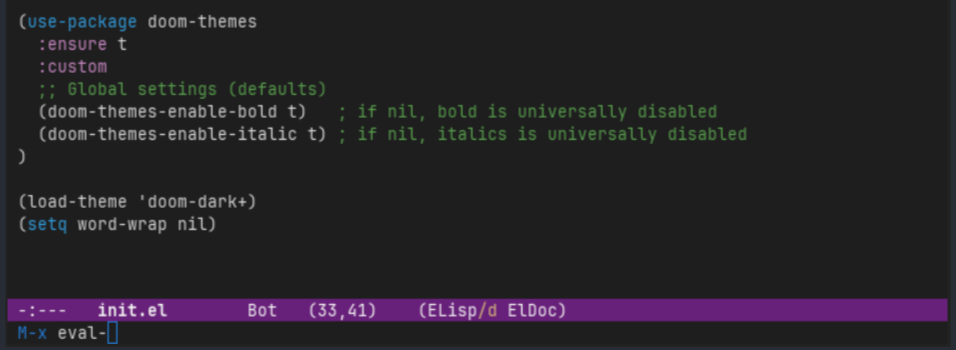
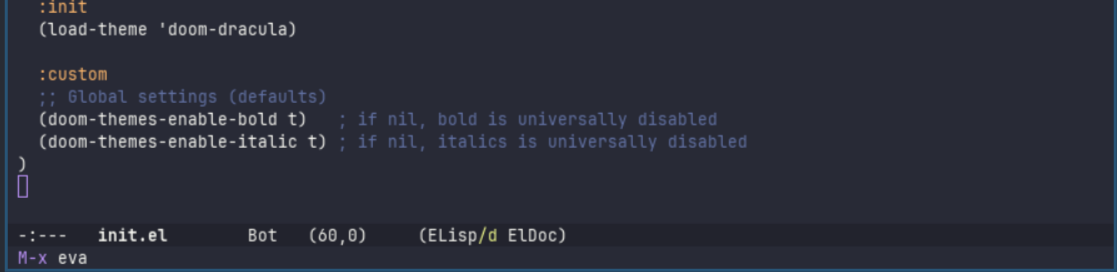
Minibuffer post

Changed region(s): [[0.0, 0.0, 1.0, 1.0]]

diff --git a/07-Minibuffer/Readme.md b/07-Minibuffer/Readme.md
@@ -1,17 +1,65 @@
 # Enhancing The Minibuffer
 
-When you activate a command in the minibuffer (such as `M-x` to run
-an interactive function), it looks a bit bare and not very discoverable:
+## Default Functionality
 
-![bare minibuffer](bare-mb.png)
- 
+When you activate a command in the minibuffer (such as `M-x` to run
+an interactive function), it's a bit basic and not very discoverable.
+
+![bare minibuffer](bare-mb.gif)
+
 Pressing `<Tab>` will provide what Emacs calls `completing-read`, which is just
 its term for auto-complete in the minibuffer. Pressing `<Tab>` once will complete
-the function name if only one interactive function exists for the prefix typed
-so far, while pressing `<Tab>` twice will show a list of functions that begin
-with the text you have typed so far.
+the function name up until the most common known prefix. So typing `eva<Tab>`
+causes the minibuffer to complete to `eval-`, since multiple functions exist
+that start with `eval-`.
 
-![completing read](completion.png)
+Pressing `<Tab>` a second time pops up a list of options, but those options
+don't actually update as you continue typing.
+
+So let's improve this experience!
+
+## Immediate Feedback
+
+The biggest improvement we can get is having an immediate list of options
+as we start interacting with the minibuffer.
+
+Emacs has a solution to this built-in, called `fido-vertical-mode`. This
+expands the minibuffer to provide contextual options as you type. You can
+experiment with it by calling the `fido-vertical-mode` interactive function
+with `M-x`. 
+
+![fido-vertical-mode demo](fido-mode.gif)
+
+This can be activated by default by adding `(fido-vertical-mode)` to the
+`:init` section of the `use-package emacs` declaration.
+
+## Adding More Info
+
+Most of the Emacs interactive function have comments that tell you what
+each function does. `fido-vertical-mode` provided a list of options, but
+if you don't know what each function does then that limits its helpfulness.
+
+This requires a third party package, [Marginalia](https://github.com/minad/marginalia).
+We can add it by adding the following to our `init.el`:
+
+```elisp
+(use-package marginalia
+  :ensure t ;; always install
+  :init
+  (marginalia-mode))
+```
+
+Save this and re-evaluate the buffer, and now you'll see some helpful documentation
+along-side the available interactive functions.
+
+![marginalia m-x example](marginalia-1.png)
+
+It also adds useful info to other minibuffer completions, such as the find file
+results.
+
+![marginalia find file](marginalia-2.png)
+
+
 
 
 
